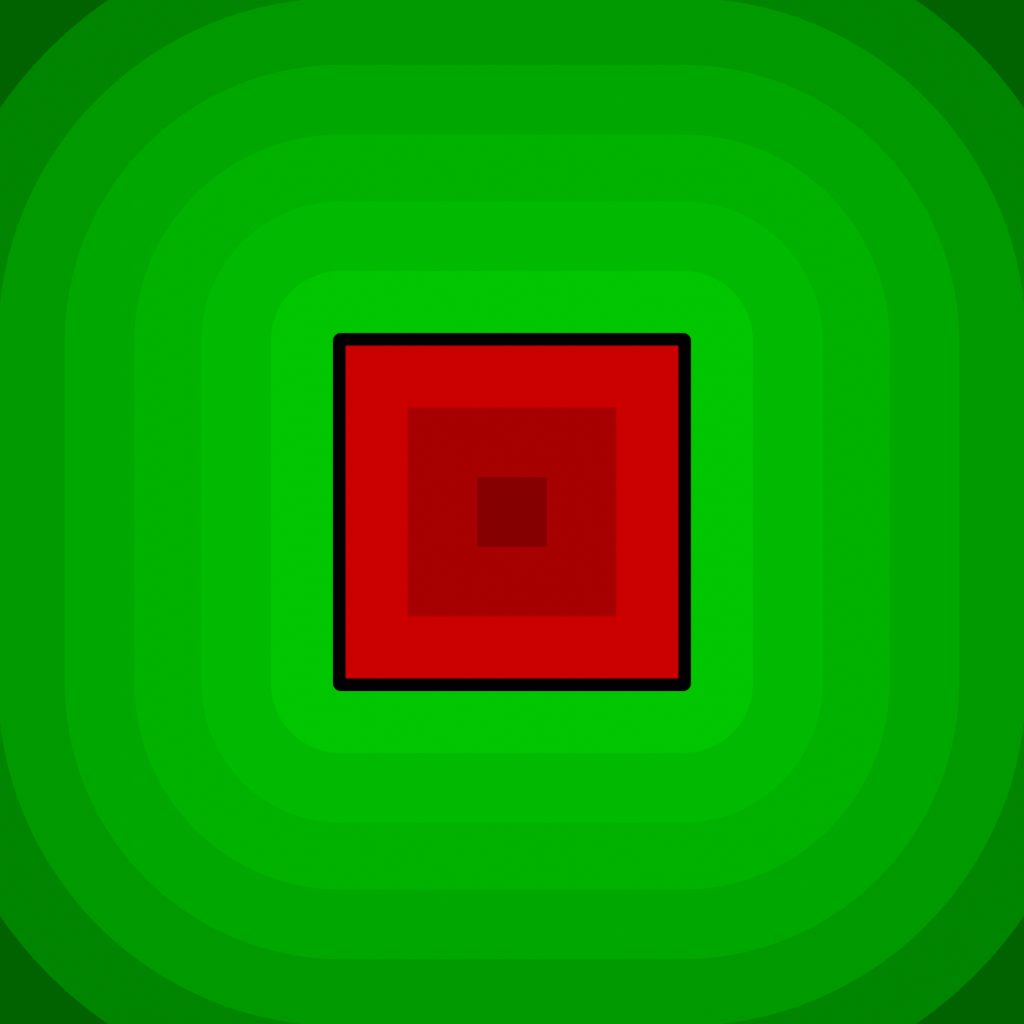
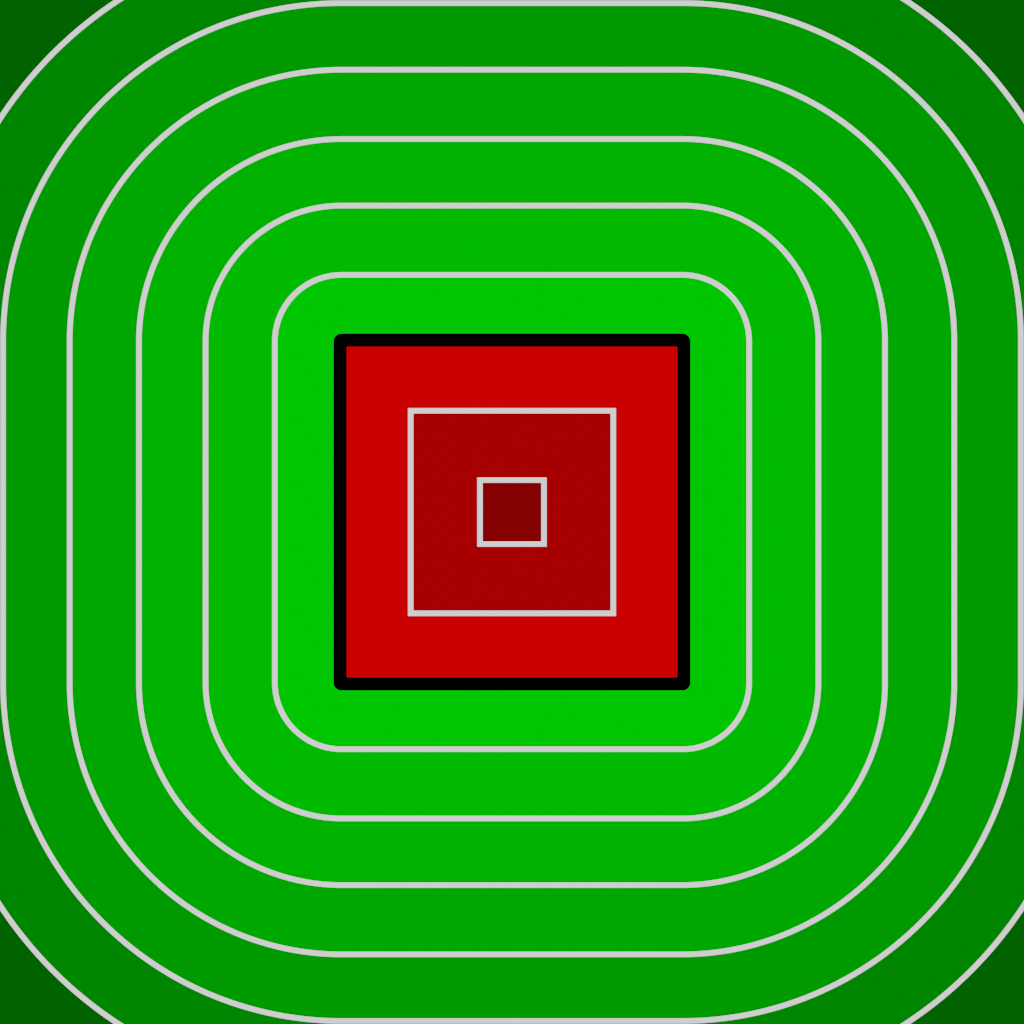
Added contour lines to the SDF box figure

diff --git a/Introduction.tex b/Introduction.tex
@@ -43,7 +43,7 @@ Instead of using geons, prior works~\cite{Sharma2018, Kania2020, Ren2021} repres
 \begin{figure}
 	\centering
 	\includegraphics[scale=0.2]{Images/SDF Box}
-	\caption{Visualization of the SDF of a 2D box. The surface of the box is depicted in black, the exterior in green, and the interior in red. Points farther from the surface are drawn darker. Each ring around the box consists of points that are equidistant from the surface.}
+	\caption{Visualization of the SDF of a 2D box. The surface of the box is depicted in black, the exterior in green, and the interior in red. Points farther from the surface are drawn darker. Each white contour line consists of points that are equidistant from the surface.}
 	\label{fig:sdf_box}
 \end{figure}
 
